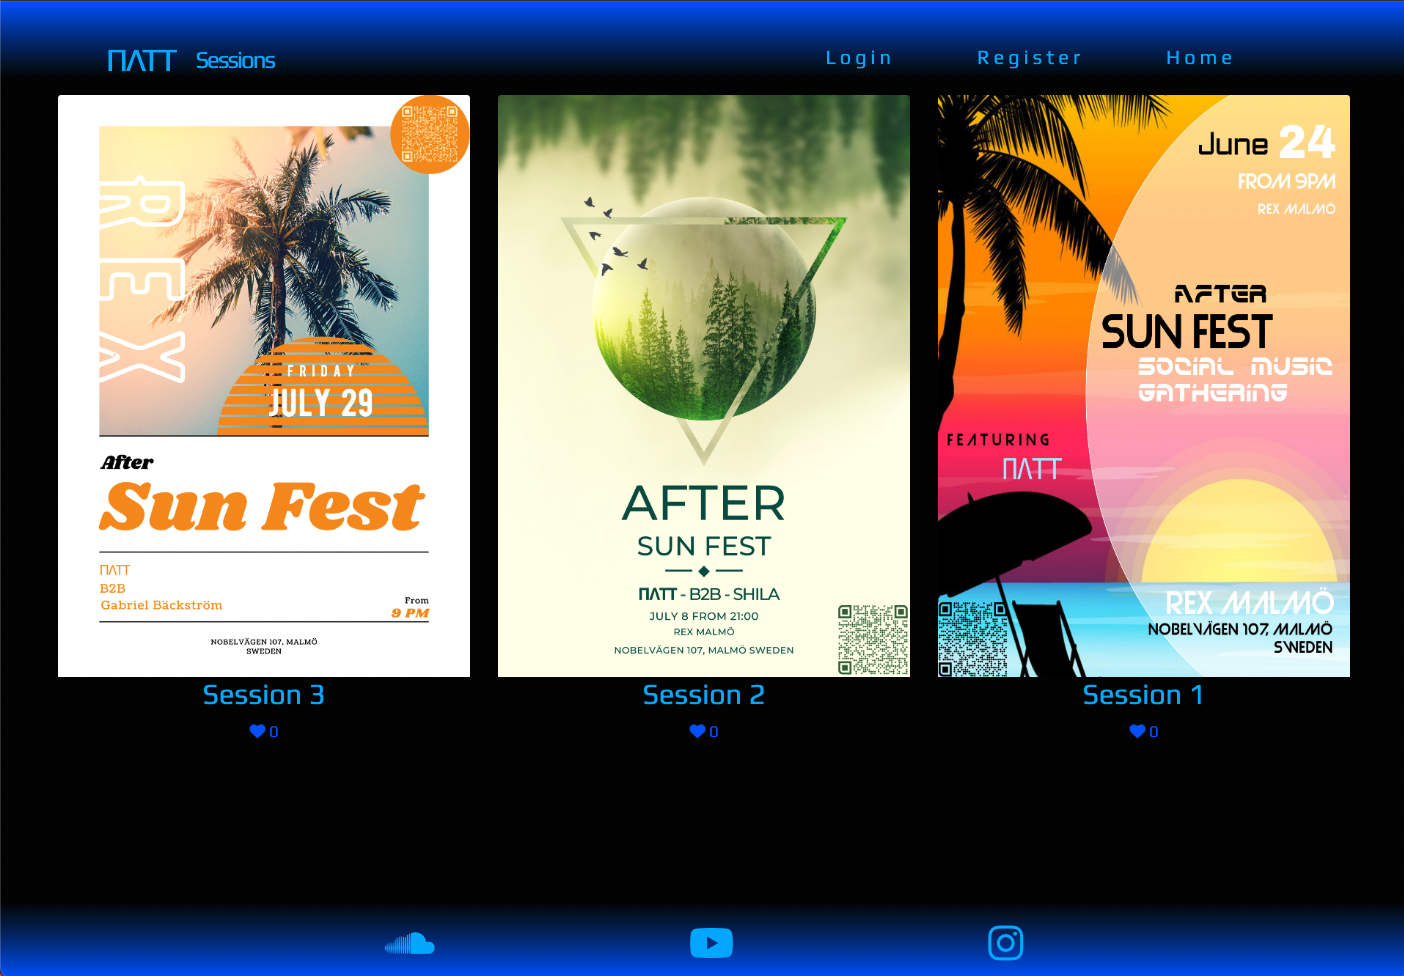
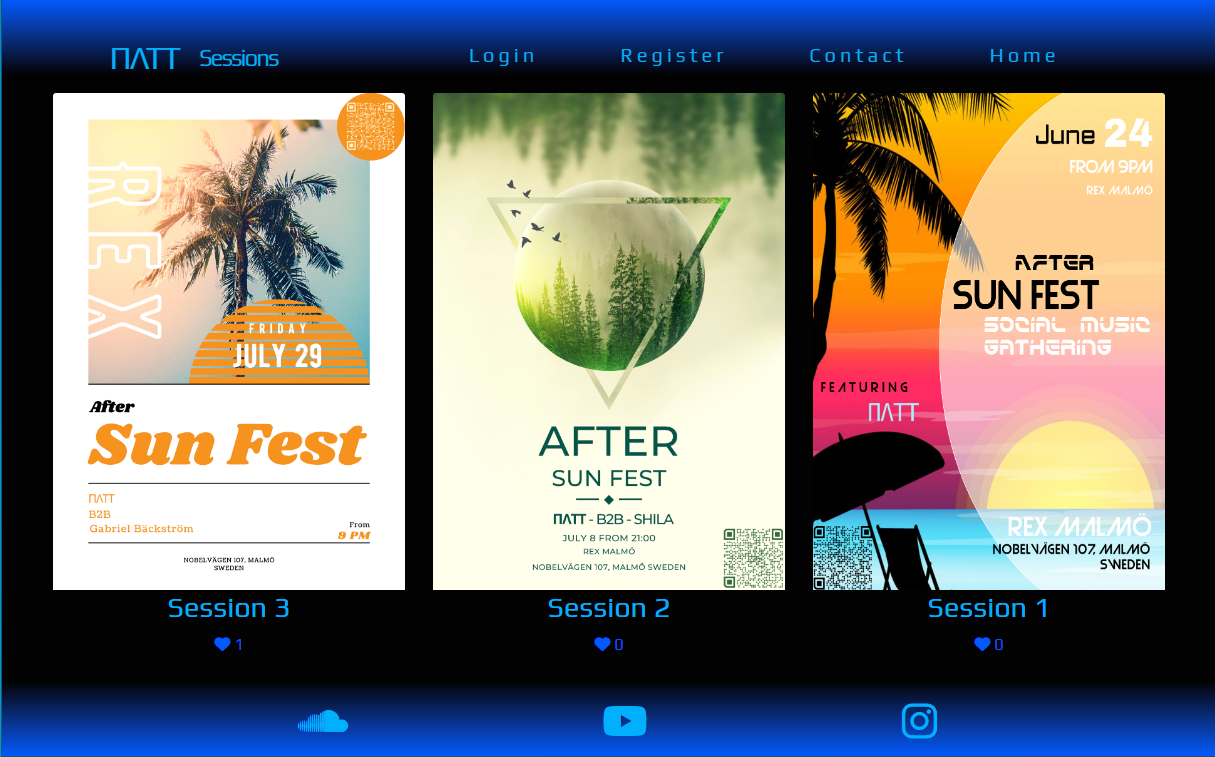
Add and fix new features to readme, Fix messages for like and dislike

diff --git a/events/views.py b/events/views.py
@@ -82,11 +82,10 @@ class PostLike(View):
         post = get_object_or_404(Post, slug=slug)
         if post.likes.filter(id=request.user.id).exists():
             post.likes.remove(request.user)
-            messages.success(request, "1.")
+            messages.success(request, "You don't like the session anymoer :(")
         else:
             post.likes.add(request.user)
-            messages.success(request, "2.")
-        messages.success(request, "3.")
+            messages.success(request, "You liked the session!")
         return HttpResponseRedirect(reverse('post_detail', args=[slug]))
 
 

diff --git a/README.md b/README.md
@@ -70,6 +70,11 @@ This events blog style, for the Full Stack Project from Code Institute, consists
 14. View Media from Events:
     - As a Site User I can see and/or listen to different media from the event so that I can understand and feel how the event was.
 
+15. Contact Form:
+    - As a Site User I can contact the admin for further questions about different sessions.
+
+    In the following link the Agile methodology is shown including epics and acceptance criteria.
+
 ### [Agile Methodology used to accomplish the goals from the project via User Stories](https://github.com/matiasconsiglio/project-4/projects/1)
 
 ### Diagram for UX design and mock-up
@@ -108,16 +113,11 @@ This events blog style, for the Full Stack Project from Code Institute, consists
     - Allows the user to click on "Session #number" to go inside each event and see different information and media from it.
     - Show the social media from ΠΛΤΤ Sessions for users to be able to reach and follow.
     - In case the user is logged in, the navbar won't show register and login, instead will show the option Logout.
+    - For resubmission, contact (model) was added to the project, now the user can contact the admin without needing to be logged in neither registered.
 
 ![First blog approach](/assets/readme-images/first-run.png)
 
 First blog approach.
-
-
-![Blog Logout](/assets/readme-images/first-run-logout.png)
-
-Blog log out option and message.
-
 
 - Register for User.
 
@@ -129,6 +129,7 @@ Blog log out option and message.
     - Messages shown in case the name of the user already exists.
     - Navbar and footer keeps the style of the welcome page.
     - Link that allows you to go to the sign in page in case you already have an account created.
+    - Message for successfull registration.
 
  
 ![Registration](/assets/readme-images/register.png)
@@ -136,9 +137,14 @@ Blog log out option and message.
 Register page with link to sign in page.
 
 
-![User already exist](/assets/readme-images/user-exist.png)
+![User already exist](/assets/readme-images/user-exists.png)
 
 User message already exist.
+
+
+![Successful registration](/assets/readme-images/successfull-registration.png)
+
+Successful registration.
 
 
 - Login for User.
@@ -150,6 +156,7 @@ User message already exist.
     - Message shown in case the username or password is incorrect.
     - Navbar and footer keeps the style of the welcome page.
     - Link that allows you to go to the register page in case you don't have an account created.
+    - Message for successfull login.
 
 ![Login](/assets/readme-images/login.png)
 
@@ -161,12 +168,18 @@ Login Page with message and link for register.
 Incorrect login. 
 
 
+![Successfull login](/assets/readme-images/successfull-login.png)
+
+Successfull login. 
+
+
 - Logout
 
     - Logout message asking the user if it is sure they want to logout.
     - Sign out button.
     - Navbar and footer keeps the style of welcome page.
     - Once Sign Out is clicked the user is redirected to the home page.
+    - Message for successfull logout.
 
 
 ![Logout](/assets/readme-images/logout.png)
@@ -174,9 +187,9 @@ Incorrect login.
 Sign out confirmation page.
 
 
-![Home](/assets/readme-images/first-run.png)
+![Home](/assets/readme-images/logout-message.png)
 
-Redirect to home after sign out.
+Redirect to home after sign out with message.
 
 
 - Event
